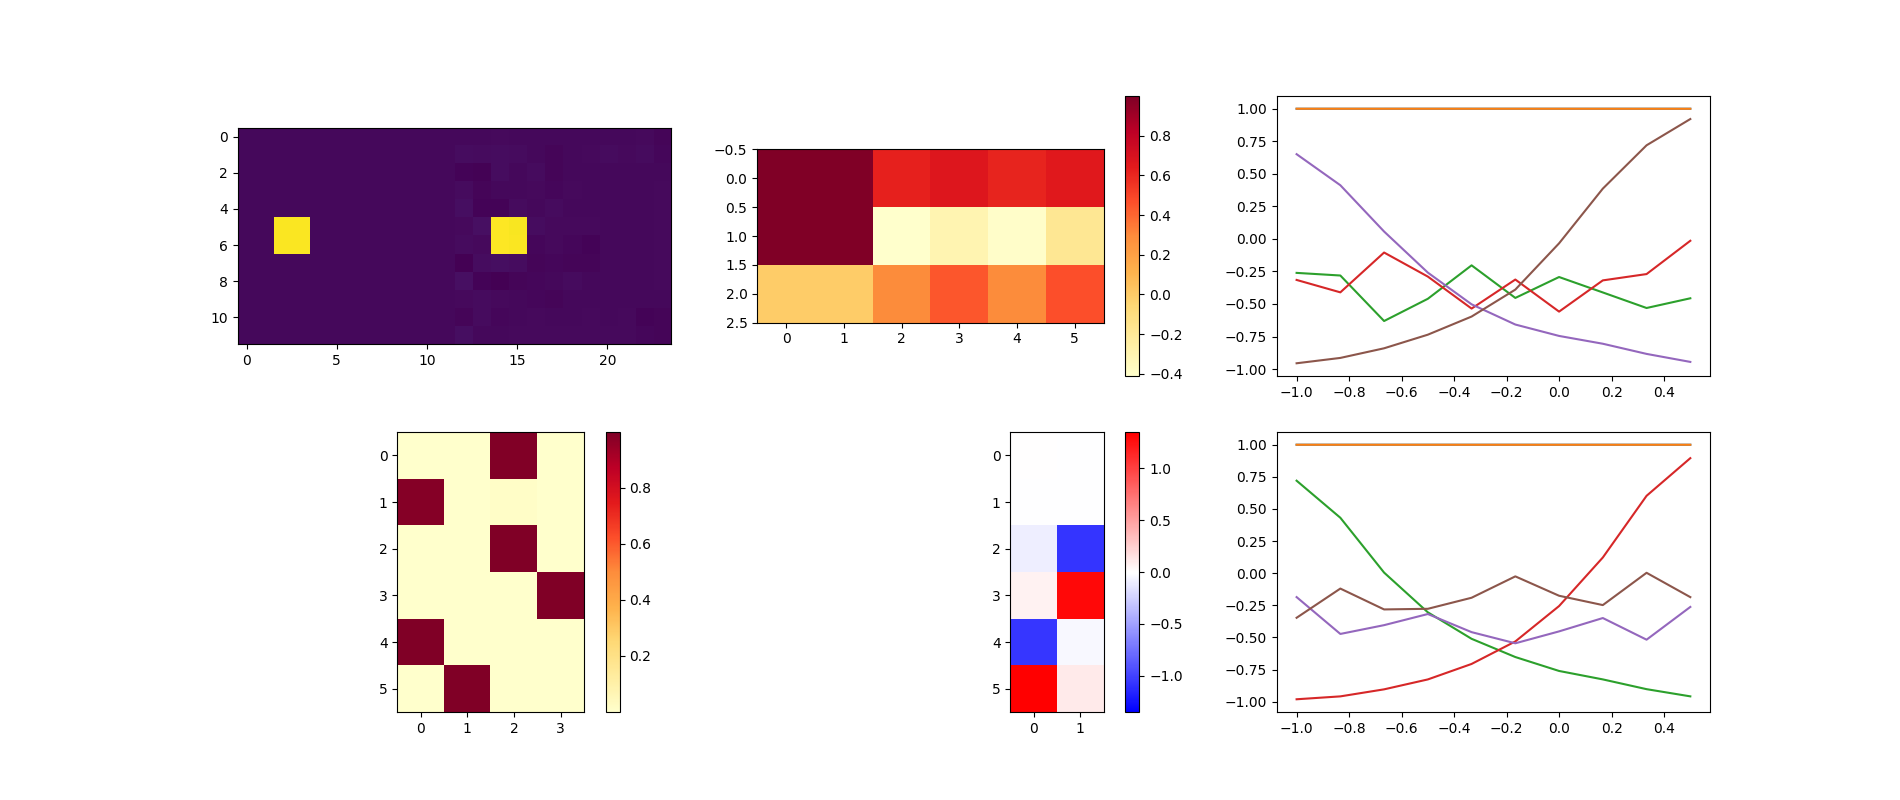
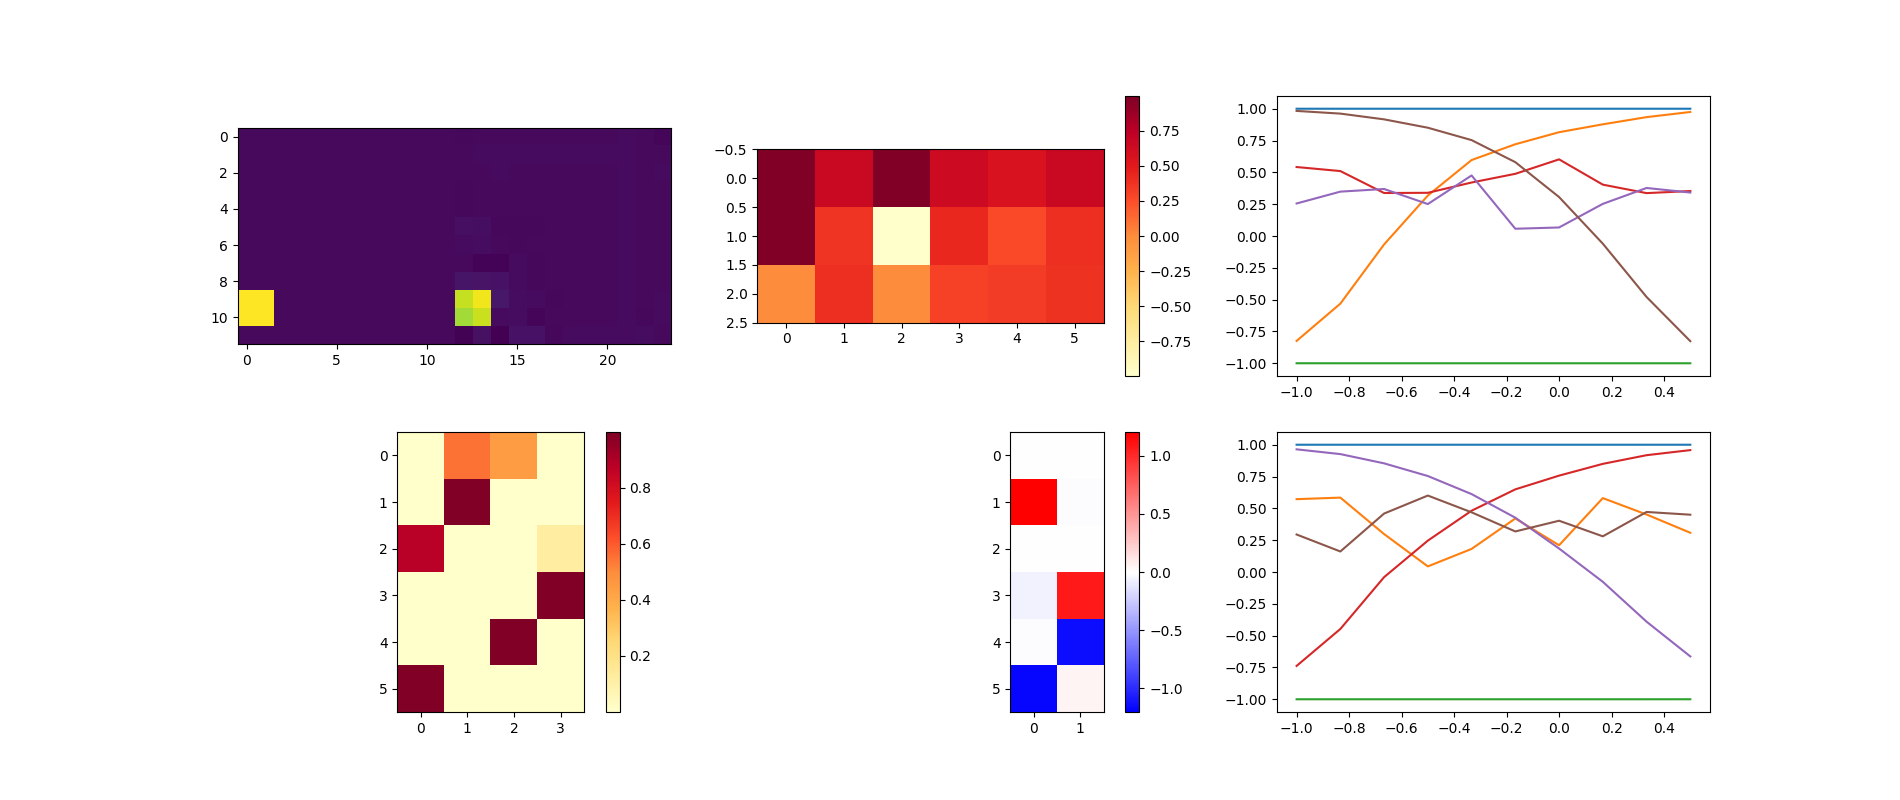
forgot to push the main file.

diff --git a/DL/ICF_simple/main_icf.py b/DL/ICF_simple/main_icf.py
@@ -1,0 +1,238 @@
+import time
+import numpy
+import numpy as np
+from numpy.random import randint
+
+import theano
+import theano.tensor as T
+theano.config.floatX = 'float32'
+
+import matplotlib
+matplotlib.use('agg')
+import matplotlib.pyplot as pp
+
+
+from util import *
+
+
+class Squares:
+    def __init__(self, nsquares=1, size=5, side=2):
+        self.nsquares = nsquares
+        self.size = size # size of the observation
+        self.side = side # size of squares
+    @property
+    def nactions(self):
+        return 4
+    def genRandomSample(self):
+        """
+        get a random (s,a,s') transition from the environment (assuming a uniform policy)
+
+        returns (state, action, next state)
+        """
+        p_0 = pos = [randint(0,self.size-self.side,2) for i in range(self.nsquares)]
+        action = randint(0,self.nactions,self.nsquares)
+        delta = [(1,0),(-1,0),(0,1),(0,-1)]
+        s_0 = numpy.zeros([self.size]*2, 'float32')
+        for i in range(self.nsquares):
+            s_0[pos[i][0]:pos[i][0]+self.side,
+                pos[i][1]:pos[i][1]+self.side] = 1
+        pos = [p+delta[action[i]] for i,p in enumerate(pos)]
+        pos = [numpy.minimum(numpy.maximum(p,0),self.size-self.side) for p in pos]
+        s_1 = numpy.zeros([self.size]*2, 'float32')
+        for i in range(self.nsquares):
+            s_1[pos[i][0]:pos[i][0]+self.side,
+                pos[i][1]:pos[i][1]+self.side] = 1
+        return (s_0.flatten(), action, s_1.flatten(), p_0, pos)
+
+from envs.block_world.block_pushing_domain import BlockPushingDomain
+from envs.block_world.blocks import AgentBlock
+
+class Sokoban:
+    def __init__(self):
+        self.env = BlockPushingDomain(observation_mode='image', configuration='standard')
+        self.nsquares = 1
+        self.size = 64
+
+    def get_agent_pos(self):
+        agent = [x for x in self.env.get_current_state()['blocks'] if isinstance(x, AgentBlock)][0]
+        return agent.position
+
+    def genRandomSample(self):
+        random_action = np.random.randint(0, 4) # the 5th action is a no-op, for simplicity let's remove this.
+        s = self.env.reset()
+        pos = self.get_agent_pos()
+        sp = self.env.step(random_action)
+        pos_p = self.get_agent_pos()
+        return s.flatten() / 255., random_action, sp.flatten() / 255., pos, pos_p
+
+
+
+
+def main():
+
+    env = Squares(1,12,2) 
+    N_latent = 6 # number of latent ICF
+    convn = [16,16] # number of hidden conv channels
+    convfs = 3 # filter size
+    nhid = 32 # number of fc hidden
+    rec_factor = 0.1 # factor of the reconstruction loss
+    lr = theano.shared(numpy.array(0.0005,'float32'))
+    
+    model = Model()
+    model.build([
+        placeholder('s_t', shape=(None, env.size**2)),
+
+        # encoder
+        flat2image('s_t_image', input='s_t', shape=(1,env.size,env.size)),
+        conv('conv1', input='s_t_image', nout=convn[0], fs=convfs, act=T.nnet.relu, stride=(1,1)),
+        conv('conv2', input='conv1',     nout=convn[1], fs=convfs, act=T.nnet.relu, stride=(1,1)),
+        image2flat('conv2_flat', input='conv2'),
+        fc('h1', input='conv2_flat', nout=nhid, act=T.nnet.relu),
+        fc('h', input='h1', nout=N_latent, act=T.tanh),
+
+        # decoder
+        conv_transpose('convT2', input='conv2', nout=convn[0], fs=convfs,act=T.nnet.relu,stride=(1,1)),
+        conv_transpose('convT1', input='convT2', nout=1, fs=convfs,act=lambda x:x,stride=(1,1)),
+        
+        # actor policy
+        fc('pi_act', input='h1', nout=env.nactions * N_latent, act=lambda x:x),
+
+    ])
+
+    ### theano tensors 
+    st = T.matrix()
+    stp1 = T.matrix()
+    at = T.ivector()
+
+    
+    ### apply
+    fp_st = model.apply({'s_t': st}, partial=True)
+    fp_stp1 = model.apply({'s_t':stp1}, partial=True)
+
+    # features and reconstruction at time t
+    f_st = fp_st['h']
+    r_st = fp_st['convT1']
+
+    # at time t+1
+    f_stp1 = fp_stp1['h']
+    
+    # policies
+    pi_act = T.nnet.softmax(fp_st['pi_act'].reshape((-1, env.nactions))).reshape((-1, N_latent, env.nactions))
+
+    # probabilities of the taken actions
+    prob_act = pi_act[T.arange(st.shape[0]), :, at]
+
+
+    ### losses
+    reconstruction_loss = T.mean((st.flatten()-r_st.flatten())**2)
+    
+    
+    def sample_selectivity(f, fp):
+        return (f - fp) / (1e-4 + T.sum(T.nnet.relu(f - fp), axis=1)[:, None])
+
+    
+    sel = sample_selectivity(f_st, f_stp1)
+    selectivity_of_at = prob_act * sel[:,:N_latent]
+    act_selectivity_loss = -T.mean(selectivity_of_at)
+    total_loss = rec_factor * reconstruction_loss + act_selectivity_loss
+
+
+    ### theano functions
+    params = model.params
+    gradients = T.grad(total_loss, params)
+    updates = adam()(params, gradients, lr)
+
+    learn_func = theano.function([st,stp1,at], [act_selectivity_loss, reconstruction_loss], updates=updates)
+    encode_func = theano.function([st], f_st)
+    reconstruct_func = theano.function([st],r_st)
+    policy_func = theano.function([st], pi_act)
+
+
+    ### training
+    all_losses = []
+    features = []
+    recons = []
+    for epoch in range(20):
+        # train
+        losses = train(learn_func, env, 500)
+        # decay lr
+        lr.set_value(numpy.float32(lr.get_value() * 0.99))
+        print(epoch, map(numpy.mean,zip(*losses)))
+        all_losses += losses
+
+        # plotting
+        latent_features, real_features, policies = extract_features(encode_func, policy_func, env, 200)
+        features.append([latent_features, real_features])
+        
+        ntrue = len(real_features[0])
+        nfeat = N_latent
+        feat = numpy.concatenate((latent_features,real_features),axis=1).T
+
+        real_features = numpy.float32(real_features).T
+        latent_features = numpy.float32(latent_features).T
+
+        # do a linear regression to get the coefficients and plot them
+        # to see how the real features correlate with the learned latent features
+        slopes = numpy.float32([
+            [scipy.stats.linregress(real, lat).slope
+             for real in real_features]
+            for lat in latent_features])
+        magnitudes = numpy.float32([abs(latent_features).mean(axis=1),
+                                    latent_features.mean(axis=1),
+                                    latent_features.var(axis=1)])
+        # see how well the reconstruction is doing
+        st = env.genRandomSample()[0]
+        rt = reconstruct_func([st])[0]
+        recons.append([st,rt])
+
+        policies_stats = numpy.mean(policies,axis=0)
+
+        # actual plotting
+        pp.clf()
+        f, axarr = pp.subplots(2,3,figsize=(19,8))
+        axarr[0,0].imshow(numpy.hstack([recons[-1][0].reshape((env.size,env.size)),
+                                        recons[-1][1].reshape((env.size,env.size))]), interpolation='none')
+        slopes_max = max([-slopes.min(), slopes.max()])
+        f.colorbar(axarr[1,1].imshow(slopes, interpolation='none', cmap='bwr',vmin=-slopes_max,vmax=slopes_max),
+                   ax=axarr[1,1])
+        f.colorbar(axarr[1,0].imshow(policies_stats, interpolation='none',cmap='YlOrRd'), ax=axarr[1,0])
+        f.colorbar(axarr[0,1].imshow(magnitudes, interpolation='none',cmap='YlOrRd'), ax=axarr[0,1])
+        
+        for i in range(nfeat):
+            rf = np.arange(real_features.min(),real_features.max()+1/6.,1./6,'float32')
+            lf = numpy.float32([latent_features[i][np.int32(np.round(real_features[0]*12))==j].mean()
+                                for j in range(-12,8,2)])
+            axarr[0,2].plot(rf, lf)
+            indexes = sorted(range(latent_features.shape[1]), key=lambda x:real_features[1][x])
+            lf = numpy.float32([latent_features[i][np.int32(np.round(real_features[1]*12))==j].mean()
+                                for j in range(-12,8,2)])
+            axarr[1,2].plot(rf, lf)
+            
+        pp.savefig('plots/epoch_%03d.png'%epoch)
+    return features, recons
+
+
+def train(learn, env, niters):
+    mbsize = 64
+    losses = []
+    for i in range(niters):
+        s,a,sp,tf,tf1 = map(numpy.float32, zip(*[env.genRandomSample() for j in range(mbsize)]))
+        losses.append(learn(s,sp,numpy.int32(a)[:,0]))
+    return losses
+
+def extract_features(encoder, policy, env, niters):
+    mbsize = 1
+    latent_features = []
+    real_features = []
+    policies = []
+    for i in range(niters):
+        s,a,sp,tf,tf1 = map(numpy.float32, zip(*[env.genRandomSample() for j in range(mbsize)]))
+        real_features.append(tf[0].flatten() / 6. - 1)
+        latent_features.append(encoder(s)[0])
+        policies.append(policy(s)[0])
+    print('policies', np.shape(policies))
+    return latent_features, real_features, policies
+
+
+if __name__ == '__main__':
+    main()
